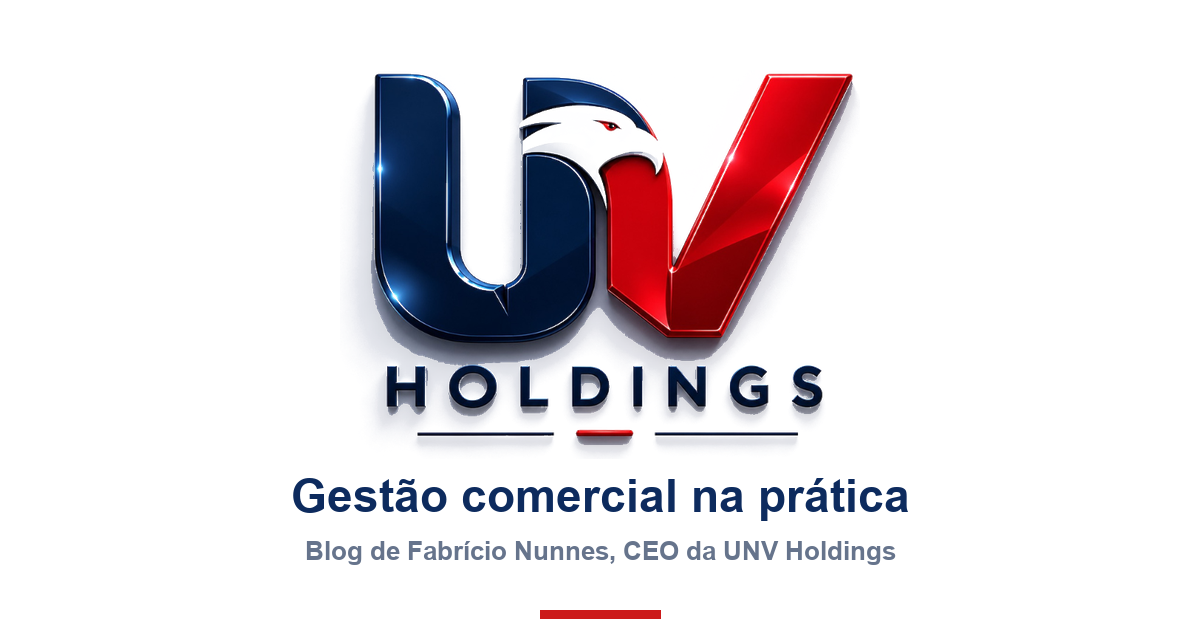
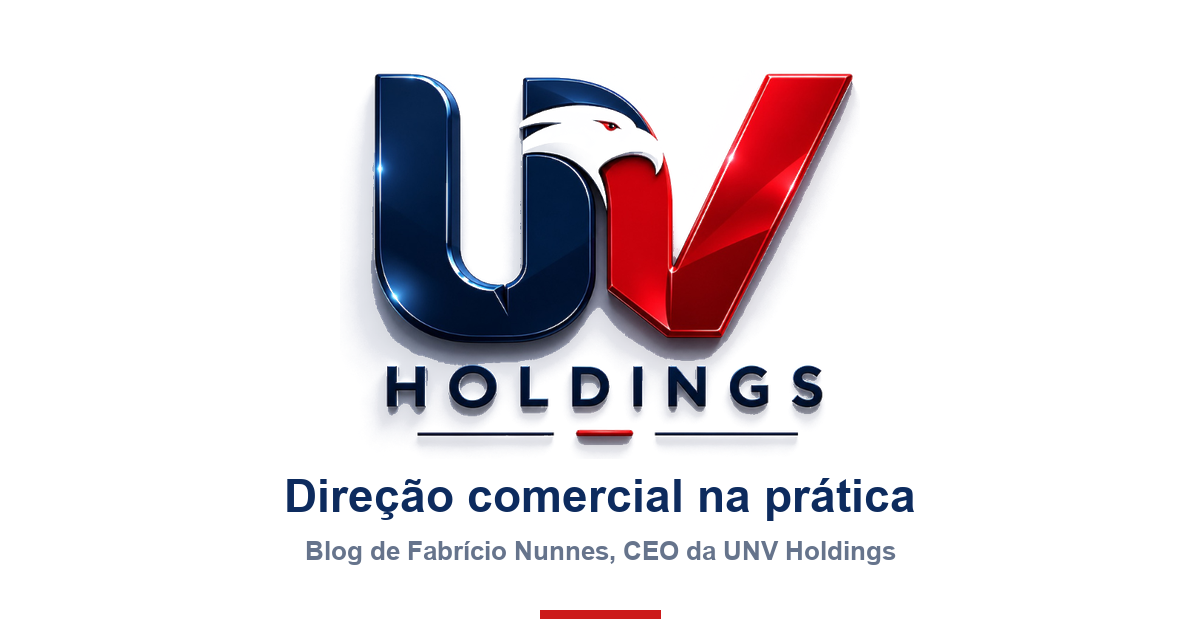
Blog: titulo passa a ser Direcao comercial na pratica (#448)

Changed region(s): [[0.2158, 0.754, 0.7708, 0.8444]]

diff --git a/public/blog/index.html b/public/blog/index.html
@@ -3,15 +3,15 @@
 <head>
 <meta charset="utf-8">
 <meta name="viewport" content="width=device-width, initial-scale=1">
-<title>Blog UNV Holdings: gestão comercial na prática, por Fabrício Nunnes</title>
-<meta name="description" content="Blog de Fabrício Nunnes, CEO da UNV Holdings (Universidade Nacional de Vendas) e diretor comercial terceirizado: gestão comercial, time de vendas, processo e meta batida todo mês.">
+<title>Blog UNV Holdings: direção comercial na prática, por Fabrício Nunnes</title>
+<meta name="description" content="Blog de Fabrício Nunnes, CEO da UNV Holdings (Universidade Nacional de Vendas) e diretor comercial terceirizado: direção comercial, time de vendas, processo e meta batida todo mês.">
 <meta name="author" content="Fabrício Nunnes, CEO da UNV Holdings (Universidade Nacional de Vendas)">
 <link rel="canonical" href="https://unvholdings.com.br/blog/">
 <link rel="icon" href="/favicon.ico">
 <meta property="og:type" content="website">
 <meta property="og:site_name" content="Blog UNV Holdings">
-<meta property="og:title" content="Blog UNV Holdings: gestão comercial na prática, por Fabrício Nunnes">
-<meta property="og:description" content="Blog de Fabrício Nunnes, CEO da UNV Holdings (Universidade Nacional de Vendas) e diretor comercial terceirizado: gestão comercial, time de vendas, processo e meta batida todo mês.">
+<meta property="og:title" content="Blog UNV Holdings: direção comercial na prática, por Fabrício Nunnes">
+<meta property="og:description" content="Blog de Fabrício Nunnes, CEO da UNV Holdings (Universidade Nacional de Vendas) e diretor comercial terceirizado: direção comercial, time de vendas, processo e meta batida todo mês.">
 <meta property="og:url" content="https://unvholdings.com.br/blog/">
 <meta property="og:image" content="https://unvholdings.com.br/blog/img/og.png">
 <meta name="twitter:card" content="summary_large_image">
@@ -55,7 +55,7 @@
    "@type": "Blog",
    "@id": "https://unvholdings.com.br/blog/#blog",
    "name": "Blog UNV Holdings",
-   "headline": "Gestão comercial na prática, por Fabrício Nunnes",
+   "headline": "Direção comercial na prática, por Fabrício Nunnes",
    "description": "Conteúdo diário de gestão comercial escrito por Fabrício Nunnes a partir das reuniões que ele conduz com donos de pequenas e médias empresas.",
    "url": "https://unvholdings.com.br/blog/",
    "inLanguage": "pt-BR",
@@ -85,7 +85,7 @@
   <section class="topo">
     <div>
       <span class="selo"><i></i>Blog da UNV Holdings</span>
-      <h1>Gestão comercial na prática, <em>todo dia.</em></h1>
+      <h1>Direção comercial na prática, <em>todo dia.</em></h1>
       <p class="sub">O que eu falo e decido nas reuniões com donos de empresa, organizado pelo Método CRESCER.
       Escrito por <b>Fabrício Nunnes</b>, CEO da UNV Holdings e diretor comercial terceirizado de pequenas e médias empresas.</p>
       <div class="busca">
